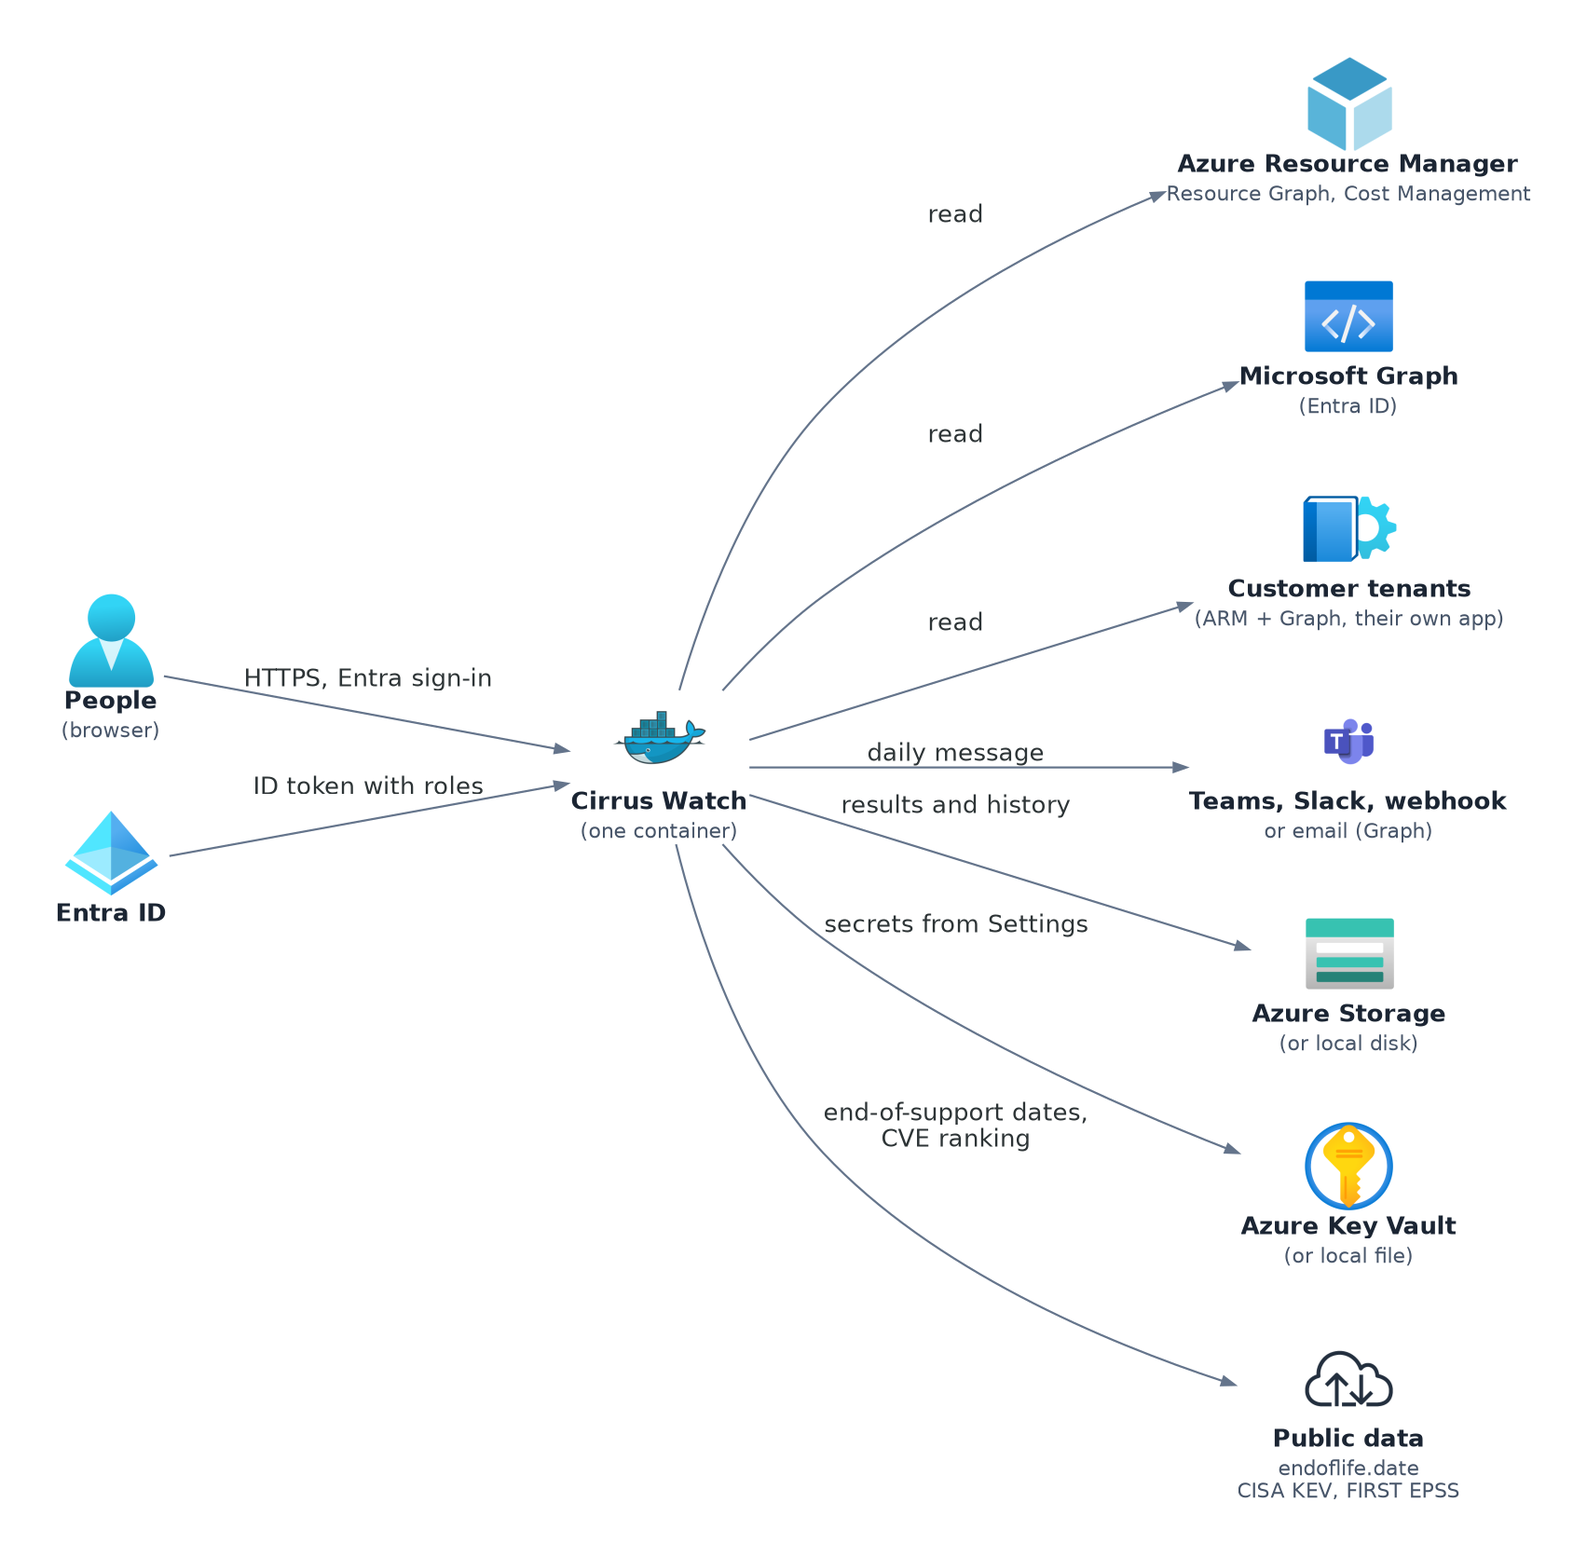
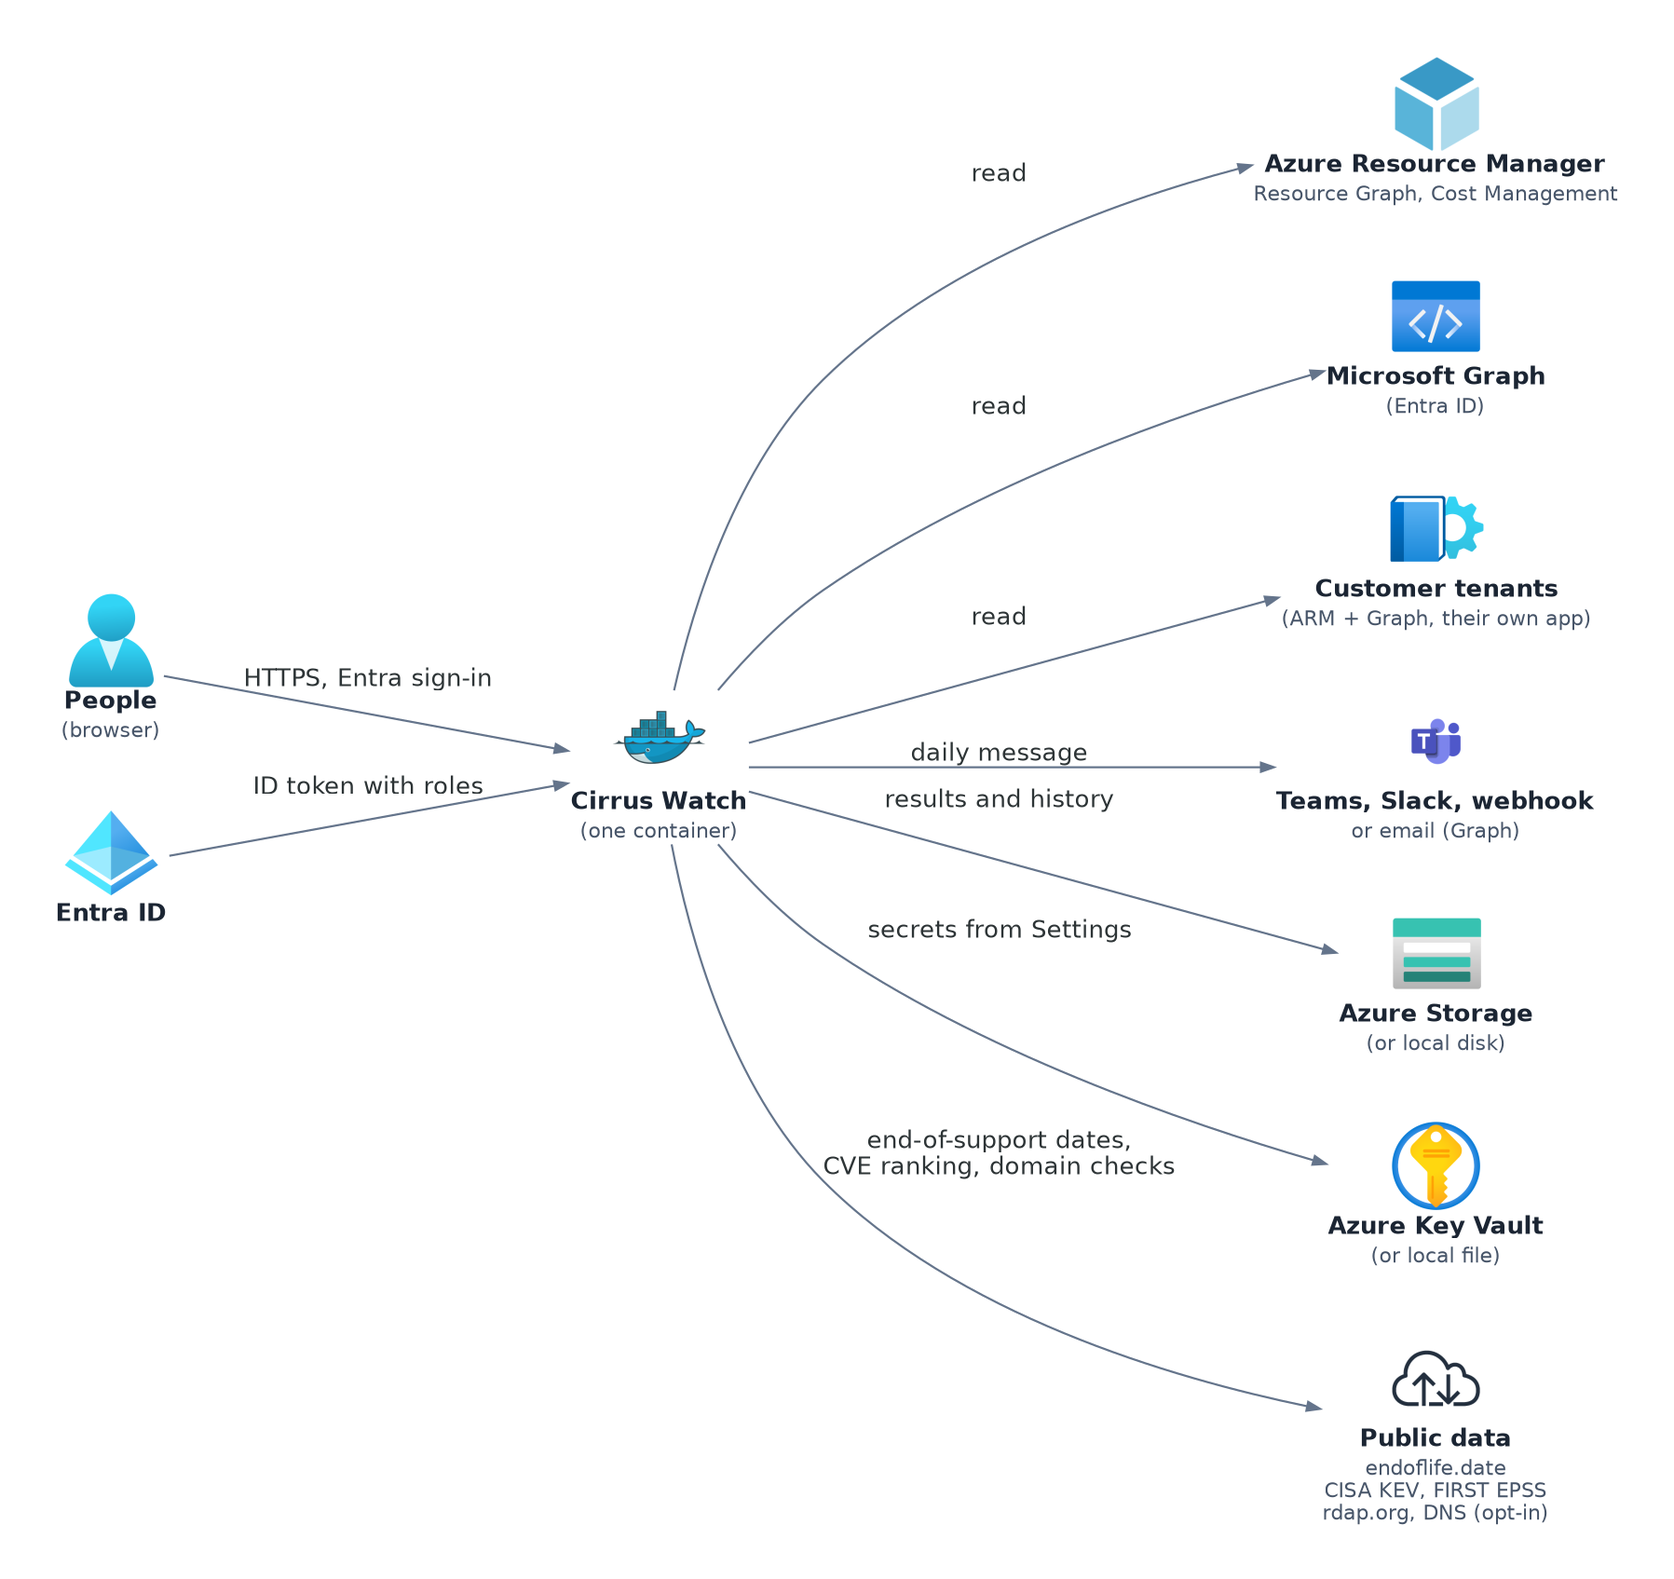
0.61.0.0: review fixes, changelog and version

diff --git a/src/tools/domains.js b/src/tools/domains.js
@@ -14,16 +14,20 @@
 //
 // Removal checklist (this tool is opt-in and may be dropped). Delete
 // src/tools/domains.js and test/domains.test.js, then remove the lines that
-// mention "domains" / "Domains and mail" / DOMAIN_CHECKS in:
+// mention "domains" / "Domains and mail" / DOMAIN_CHECKS / rdap in:
 //   server.js (registerScanTool line), src/toolPermissions.js (NEEDS),
 //   src/access.js (TOOL_AREAS), src/settings.js (DOMAIN_CHECKS field and
 //   TOOL_SPNS entry), public/app.js (TOOLS entry and the domain-, asd-, spf-,
 //   dmarc-, dkim-, dns-zone-not-delegated KINDS), public/compliance.js
 //   (KIND_CONTROLS block and TOOL_KINDS entry), .env.example (DOMAIN_CHECKS
-//   block), docs/tools.md (section), docs/permissions.md (Reader row note),
-//   docs/architecture.md, docs/lld-setup.md and docs/hld.md (outbound hosts
-//   sentence). Then run npm run docs and npm run diagrams -- arch-inside-app
-//   (tool count). DATA_DIR/rdap-cache.json can be deleted.
+//   block), docs/tools.md (section), docs/permissions.md (the Reader row's
+//   last clause and the User.Read.All row), docs/architecture.md,
+//   docs/lld-setup.md and docs/hld.md (outbound hosts sentence), docs/data.md
+//   (rdap-cache.json sentence), docs/guides/sign-in-and-roles.md (areas
+//   table), docs/diagrams/hld-context.py and arch-network.py (rdap.org, DNS).
+//   Then run npm run docs (README table, .env.example tool ids) and
+//   npm run diagrams -- arch-inside-app hld-context arch-network.
+//   CHANGELOG.md keeps its history. DATA_DIR/rdap-cache.json can be deleted.
 const dns = require("dns");
 const fs = require("fs");
 const path = require("path");

diff --git a/docs/diagrams/hld-context.py b/docs/diagrams/hld-context.py
@@ -19,7 +19,7 @@ with picture(__file__, direction="LR", ranksep="1.1"):
     chan = icon(Teams, "Teams, Slack, webhook", "or email (Graph)")
     st = icon(StorageAccounts, "Azure Storage", "(or local disk)")
     kv = icon(KeyVaults, "Azure Key Vault", "(or local file)")
-    feeds = icon(Internet, "Public data", "endoflife.date", "CISA KEV, FIRST EPSS")
+    feeds = icon(Internet, "Public data", "endoflife.date", "CISA KEV, FIRST EPSS", "rdap.org, DNS (opt-in)")
 
     people >> link("HTTPS, Entra sign-in") >> cw
     entra >> link("ID token with roles") >> cw
@@ -29,5 +29,5 @@ with picture(__file__, direction="LR", ranksep="1.1"):
     cw >> link("daily message") >> chan
     cw >> link("results and history") >> st
     cw >> link("secrets from Settings") >> kv
-    cw >> link("end-of-support dates,\nCVE ranking") >> feeds
+    cw >> link("end-of-support dates,\nCVE ranking, domain checks") >> feeds
     same_rank(people, entra)

diff --git a/docs/diagrams/arch-network.py b/docs/diagrams/arch-network.py
@@ -25,7 +25,7 @@ with picture(__file__):
             peapp = icon(PrivateEndpoint, "Private endpoint: web app", "pe-<name>, optional: app_private_endpoint", optional=True)
     st = icon(StorageAccounts, "Storage", "firewall: deny all but snet-app")
     kv = icon(KeyVaults, "Key vault", "firewall: deny all but snet-app")
-    azure = icon(Internet, "ARM, Graph, Entra,\nDocker Hub, endoflife.date,\nCISA KEV, FIRST EPSS")
+    azure = icon(Internet, "ARM, Graph, Entra,\nDocker Hub, endoflife.date,\nCISA KEV, FIRST EPSS,\nrdap.org and DNS (opt-in)")
 
     user >> link("HTTPS 443") >> fe >> link() >> app
     app >> link("VNet integration") >> snapp

diff --git a/docs/permissions.md b/docs/permissions.md
@@ -22,9 +22,7 @@ automatically:
 
 | Role | Used for |
 | --- | --- |
-| Reader | Every scan: resources, Resource Graph (including Advisor, backup items and resource changes), metrics, diagnostic settings, role assignments, NSG rules, route tables, private endpoints and VNet peerings (for exposure paths), storage container and database firewall lists, App Service config (site settings such as remote debugging and FTP), AKS versions and settings, Recovery Services vault usage and recovery points, quota usage, Defender for Cloud secure scores, recommendations, plans and vulnerability findings (CVEs; the findings exist only where a Defender plan scans: Defender for Servers, Defender CSPM or Defender for Containers), budgets and resource locks, virtual network subnet usage, Azure Policy (including the `checkPolicyRestrictions` probes, a read operation), Azure Monitor (agents, data collection rules, alert rules, action groups, workspaces, and a `Heartbeat` query per Log Analytics workspace through ARM; give Log Analytics Reader on the workspaces if Reader alone is refused), Update Manager assessments, installations and maintenance configurations, Resource Health and Service Health events, subscription state and management group placement (Reader at the Tenant Root Group also shows Owners given on management groups; without it, a subscription whose only Owner is inherited shows as "No Owner"), storage lifecycle policies, WAF policies and public DNS record sets (network hygiene also looks up CNAME targets in public DNS, so the app needs outbound DNS), VPN connection status, ExpressRoute circuits and peerings, private endpoint DNS zone groups and the health metrics of application gateways, load balancers and Front Door (connectivity health) |
-| Reader | Every scan: resources, Resource Graph (including Advisor, backup items and resource changes), metrics, diagnostic settings, role assignments, NSG rules, route tables, private endpoints and VNet peerings (for exposure paths), storage container and database firewall lists, App Service config (site settings such as remote debugging and FTP), AKS versions and settings, Recovery Services vault usage and recovery points, quota usage, Defender for Cloud secure scores, recommendations, plans and vulnerability findings (CVEs; the findings exist only where a Defender plan scans: Defender for Servers, Defender CSPM or Defender for Containers), budgets and resource locks, virtual network subnet usage, Azure Policy (including the `checkPolicyRestrictions` probes, a read operation), Azure Monitor (agents, data collection rules, alert rules, action groups, workspaces, and a `Heartbeat` query per Log Analytics workspace through ARM; give Log Analytics Reader on the workspaces if Reader alone is refused), Update Manager assessments, installations and maintenance configurations, Resource Health and Service Health events, subscription state and management group placement (Reader at the Tenant Root Group also shows Owners given on management groups; without it, a subscription whose only Owner is inherited shows as "No Owner"), storage lifecycle policies, WAF policies and public DNS record sets, role assignments held by disabled enterprise apps (Enterprise apps; skipped without Reader) (network hygiene also looks up CNAME targets in public DNS, so the app needs outbound DNS) |
-| Reader | Every scan: resources, Resource Graph (including Advisor, backup items and resource changes), metrics, diagnostic settings, role assignments, NSG rules, route tables, private endpoints and VNet peerings (for exposure paths), storage container and database firewall lists, App Service config (site settings such as remote debugging and FTP), AKS versions and settings, Recovery Services vault usage and recovery points, quota usage, Defender for Cloud secure scores, recommendations, plans and vulnerability findings (CVEs; the findings exist only where a Defender plan scans: Defender for Servers, Defender CSPM or Defender for Containers), budgets and resource locks, virtual network subnet usage, Azure Policy (including the `checkPolicyRestrictions` probes, a read operation), Azure Monitor (agents, data collection rules, alert rules, action groups, workspaces, and a `Heartbeat` query per Log Analytics workspace through ARM; give Log Analytics Reader on the workspaces if Reader alone is refused), Update Manager assessments, installations and maintenance configurations, Resource Health and Service Health events, subscription state and management group placement (Reader at the Tenant Root Group also shows Owners given on management groups; without it, a subscription whose only Owner is inherited shows as "No Owner"), storage lifecycle policies, WAF policies and public DNS record sets (network hygiene also looks up CNAME targets in public DNS, so the app needs outbound DNS); App Service custom host names, DNS zones and App Service Domains for Domains and mail (opt-in, `DOMAIN_CHECKS`; it also asks public DNS and `rdap.org`) |
+| Reader | Every scan: resources, Resource Graph (including Advisor, backup items and resource changes), metrics, diagnostic settings, role assignments, NSG rules, route tables, private endpoints and VNet peerings (for exposure paths), storage container and database firewall lists, App Service config (site settings such as remote debugging and FTP), AKS versions and settings, Recovery Services vault usage and recovery points, quota usage, Defender for Cloud secure scores, recommendations, plans and vulnerability findings (CVEs; the findings exist only where a Defender plan scans: Defender for Servers, Defender CSPM or Defender for Containers), budgets and resource locks, virtual network subnet usage, Azure Policy (including the `checkPolicyRestrictions` probes, a read operation), Azure Monitor (agents, data collection rules, alert rules, action groups, workspaces, and a `Heartbeat` query per Log Analytics workspace through ARM; give Log Analytics Reader on the workspaces if Reader alone is refused), Update Manager assessments, installations and maintenance configurations, Resource Health and Service Health events, subscription state and management group placement (Reader at the Tenant Root Group also shows Owners given on management groups; without it, a subscription whose only Owner is inherited shows as "No Owner"), storage lifecycle policies, WAF policies and public DNS record sets (network hygiene also looks up CNAME targets in public DNS, so the app needs outbound DNS), VPN connection status, ExpressRoute circuits and peerings, private endpoint DNS zone groups and the health metrics of application gateways, load balancers and Front Door (connectivity health), role assignments held by disabled enterprise apps (Enterprise apps; skipped without Reader); App Service custom host names, DNS zones and App Service Domains for Domains and mail (opt-in, `DOMAIN_CHECKS`; it also asks public DNS and `rdap.org`) |
 | Cost Management Reader | Cost anomalies and cost history |
 | Key Vault Reader | Optional: only for the Key Vault item check (`KEYVAULT_ITEM_CHECK`, off by default). Names and expiry dates of secrets, keys and certificates on RBAC vaults; never a secret's value |
 

diff --git a/docs/guides/sign-in-and-roles.md b/docs/guides/sign-in-and-roles.md
@@ -19,9 +19,9 @@ more than one (`TOOL_AREAS` in `src/access.js`):
 
 | Area | Scans |
 | --- | --- |
-| Identity | Access lookup, access review, secret expiry, access packages, role assignments, PIM, stale accounts, tenant settings, licence coverage, privileged roles, app permissions, Conditional Access, MFA coverage |
-| Security | Privileged roles, app permissions, Conditional Access, MFA coverage, Defender for Cloud, internet exposure, exposure paths, firewall policies, network hygiene, Key Vault, resource settings, diagnostic settings, change log |
-| Platform | Defender for Cloud, internet exposure, exposure paths, firewall policies, network hygiene, Key Vault, resource settings, diagnostic settings, change log, IPAM, tags, end of support, service retirements, certificates, backup coverage, resilience, updates, resource health, connectivity health, architecture, policy check, safety nets, Azure Monitor, subscriptions, quotas, orphaned resources, cost anomalies, cost history |
+| Identity | Access lookup, access review, secret expiry, access packages, role assignments, PIM, stale accounts, tenant settings, licence coverage, privileged roles, app permissions, enterprise apps, Conditional Access, MFA coverage |
+| Security | Privileged roles, app permissions, enterprise apps, Conditional Access, MFA coverage, Defender for Cloud, internet exposure, exposure paths, firewall policies, network hygiene, domains and mail, Key Vault, resource settings, diagnostic settings, change log |
+| Platform | Defender for Cloud, internet exposure, exposure paths, firewall policies, network hygiene, domains and mail, Key Vault, resource settings, diagnostic settings, change log, IPAM, tags, end of support, service retirements, certificates, backup coverage, resilience, updates, resource health, connectivity health, Azure Virtual Desktop, architecture, policy check, safety nets, Azure Monitor, subscriptions, quotas, orphaned resources, cost anomalies, cost history |
 | Cost | Orphaned resources, cost anomalies, cost history |
 
 Whoever may see a scan may also run it and accept or snooze its findings. Settings stays with `Admin`; the server

diff --git a/CHANGELOG.md b/CHANGELOG.md
@@ -21,6 +21,37 @@ Steps needed when moving past a version. Read this before you change the image t
 - **0.53.4.0: the image is built on Node.js 26.** Running from source needs Node.js 22 or newer; 26 is what is
   tested.
 
+## [0.61.0.0] - 2026-10-31
+
+### Added
+
+- Connectivity health scan (hourly): VPN connections and ExpressRoute circuits that are down, failed gateways,
+  private endpoints waiting for approval or without a DNS zone group, and unhealthy backends on application gateways,
+  load balancers and Front Door.
+- Enterprise apps scan (daily): SAML signing certificates and service principal secrets that expire, single sign-on
+  apps anyone may sign in to, apps with no owner, unused apps from other tenants and disabled apps that still hold
+  Azure roles.
+- Azure Virtual Desktop scan (daily): unavailable or broken session hosts, empty host pools, pooled pools without a
+  scaling plan, unassigned personal desktops, Start VM on Connect off, application groups in no workspace and empty
+  workspaces. A Host pools tab lists every pool.
+- Domains and mail scan, off by default (`DOMAIN_CHECKS=on`, or `dns` for DNS only): expiring or unlocked domain registrations,
+  App Service Domains without auto-renew, Azure DNS zones that are not delegated, and SPF, DMARC and DKIM gaps. It
+  looks up registrations at rdap.org. The header of `src/tools/domains.js` lists how to remove it.
+- `GET /health` (no sign-in): 503 when no scheduled scan has finished for `HEALTH_SCAN_MAX_AGE_HOURS` (26). Module
+  v1.10.0 uses it as the App Service health check.
+- A per-tenant scan deadline (`SCAN_DEADLINE_MINUTES`, 45).
+- The tests run in CI before the image is built.
+
+### Changed
+
+- Azure and Graph requests time out after `AZURE_REQUEST_TIMEOUT_SECONDS` (60) and are retried (Graph only for
+  reads).
+
+### Fixed
+
+- Blob reads and writes of the findings store are retried on short outages.
+- A scan that hangs no longer leaves the tenant on "already running".
+
 ## [0.60.0.4] - 2026-10-30
 
 ### Changed

diff --git a/docs/data.md b/docs/data.md
@@ -4,7 +4,7 @@ What the dashboard stores, where, and for how long. Back-up and restore steps ar
 [operations.md](operations.md#back-up-and-restore); the layout inside a container is in
 [architecture.md](architecture.md#10-where-data-is-kept).
 
-- **Scan results and run history, cost history**: in an Azure Storage blob container when `STORAGE_ACCOUNT_URL` is
+- **Scan results and run history, cost history, the Azure Virtual Desktop host pool list**: in an Azure Storage blob container when `STORAGE_ACCOUNT_URL` is
   set (reached with an Entra token; account keys can stay off), otherwise under `DATA_DIR` (default `./data`).
   Each customer tenant has its own container, `dashboard-<key>` (on disk `DATA_DIR/tenants/<key>`), so one
   customer's data never sits next to another's. Runs are kept for `HISTORY_RETENTION_DAYS` (default 365; the Terraform module sets 730).
@@ -24,7 +24,8 @@ What the dashboard stores, where, and for how long. Back-up and restore steps ar
 - **Cleanup savings** (orphaned resources deleted after they were found): `savings/orphaned-resources.json` per tenant.
 - **Public data copies**: `eol-dates.json` (end-of-support dates from endoflife.date) and `cve-feeds.json` (CISA's
   Known Exploited Vulnerabilities list and EPSS scores from FIRST) under `DATA_DIR`, refreshed at most once a day and
-  used as they are when a source cannot be reached. They hold no tenant data.
+  used as they are when a source cannot be reached. They hold no tenant data. With `DOMAIN_CHECKS = on`,
+  `rdap-cache.json` holds the registration answers from rdap.org for the tenants' domain names, each kept a day.
 - **Activity log** (scan runs): JSON lines in `runs.jsonl`, under `DATA_DIR/logs` when `DATA_DIR` is set, otherwise `./logs`.
 - **Audit log** (who opened and changed what): `audit.jsonl` next to it, kept `AUDIT_RETENTION_DAYS`.
 - **A removed customer tenant** (Settings → Remove) leaves nothing behind: its secrets are purged from the vault,

diff --git a/docs/tools.md b/docs/tools.md
@@ -156,13 +156,14 @@ connection's own ARM GET), ExpressRoute circuits the provider has not provisione
 circuits with Azure private peering disabled (critical). VPN and ExpressRoute gateways, including Virtual WAN ones,
 in a failed provisioning state (critical). Private endpoints still waiting for approval (warning; rejected and
 disconnected ones are in Orphaned resources) and approved private endpoints with no private DNS zone group, so the
-name likely still resolves to the public address (information; turn this off in Settings, Connectivity health, for
-tenants that run their own DNS). Backends that failed their health probes over the last hour, from Azure Monitor
+name likely still resolves to the public address (information; turn this off in Settings, Connectivity health,
+`CONNECTIVITY_PE_DNS_CHECK`, for tenants that run their own DNS). Backends that failed their health probes over the last hour, from Azure Monitor
 metrics (warning): Application Gateway `UnhealthyHostCount` above 0, Standard load balancer health probe status
 (`DipAvailability`) and Front Door origin health (`OriginHealthPercentage`, classic Front Door
-`BackendHealthPercentage`) below 100 % (or the percentage set in Settings). Each finding names the pool, backend
+`BackendHealthPercentage`) below 100 % (or `CONNECTIVITY_HEALTH_PERCENT`, set in Settings). Each finding names the pool, backend
 or origin where Azure gives it and says what to check. Reads at most 500 connections, 500 private endpoints and
 200 resources of each load-balancing kind per run; the rest show as "not checked".
+
 ## Azure Virtual Desktop
 
 Session hosts that are down or forgotten, host pools that cost more than needed, and app groups users cannot see.
